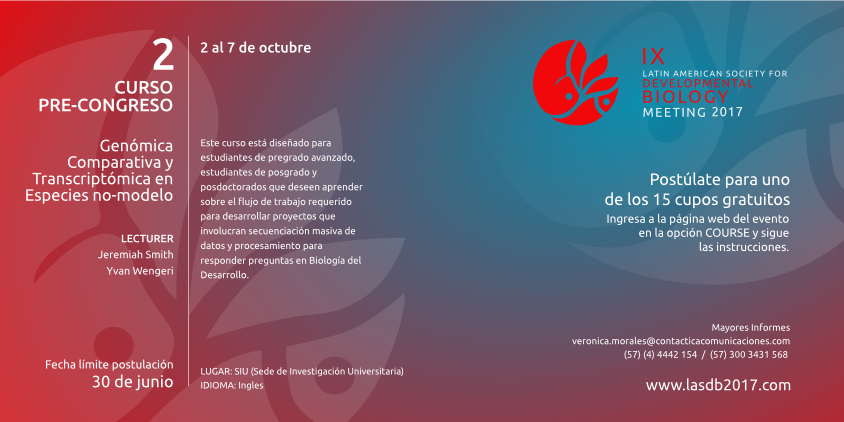
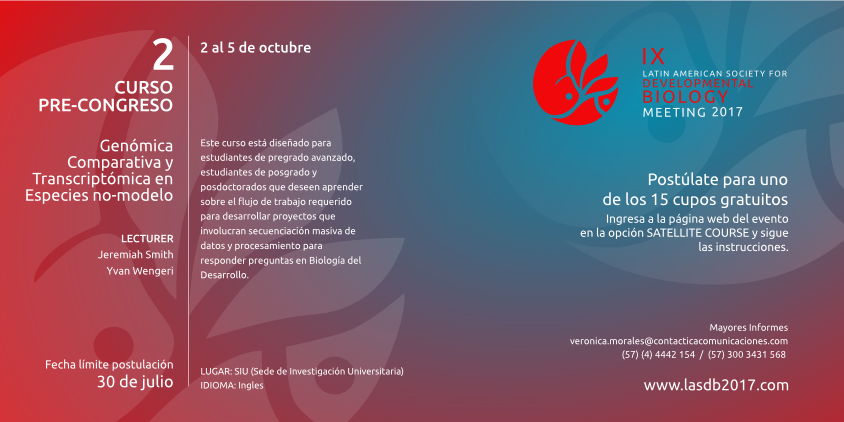
cmabios realziados pro natalia al satellite courses

diff --git a/Lasdb2017_project/course.html b/Lasdb2017_project/course.html
@@ -7,7 +7,7 @@
     <meta name="description" content="Lasdb2017. LATIN AMERICAN SOCIETY FOR DEVELOPMENTAL BIOLOGY MEETING 2017" >
     <meta name="author" content="Lasdb. LATIN AMERICAN SOCIETY FOR DEVELOPMENTAL BIOLOGY" >
     <meta name="robots" content="index, follow">
-	<title>Satellital Course Lasbd2017</title>
+	<title>Satellite Courses Lasbd2017</title>
 	<!--Fonts-->
 	<link rel="stylesheet" href="font-awesome-4.6.3/css/font-awesome.min.css"/>
 	<link href="https://fonts.googleapis.com/css?family=Ubuntu+Condensed|Ubuntu+Mono:400,700|Ubuntu:400,500,700" rel="stylesheet">
@@ -64,7 +64,7 @@
 				<div id="curso">										
 					<h1>COURSE 1</h1>					
 					<h2>Current Topics and Emerging Models in Developmental Biology</h2>
-					<h1>October 2-5</h1></br></br>
+					<h1>October 2-6</h1></br></br>
 					<div>
 					<img id="foto_curso" src="imagenes/cursos/foto_curso_1.jpg" alt="foto curso 1">
 					</div>
@@ -73,12 +73,12 @@
 					</br>
 					<h1>LECTURERS</h1>
 					</br>
-					<p>Brigitte Galliot, Federico Brown, Rodrigo Nunes de Fonseca, Miguel Concha, Enrique Amaya, Karen Echeverri</p>
+					<p>Enrique Amaya, Federico Brown, Miguel Concha, Karen Echeverri, Brigitte Galliot, Rodrigo Nunes da Fonseca</p>
 				</div>	
 				<div id="curso">										
 					<h1>COURSE 2</h1>					
 					<h2>Comparative Genomics and Transcriptomics in non-model species</h2>
-					<h1>October 2-6</h1></br></br>
+					<h1>October 2-5</h1></br></br>
 					<div>
 					<img id="foto_curso" src="imagenes/cursos/foto_curso_2.jpg" alt="foto curso 1">
 					</div>
@@ -98,17 +98,22 @@
 				<span class="fa fa-check-circle-o fa-2x" aria-hidden="true"></span>
 				</div>	
 				<div id="nota">
-				<h1>Requirements</h1></br>				
+				<h1>How to apply</h1></br>				
 					<ul>
-						<li>Be registered at Lasdb2017 Meeting.</li>
-						<li>Make the registration payment.</li>
-						<li><a href="http://formularios.aplicacionesincontacto.com/#/formViewer/65b10f9c-76eb-446d-8e57-755782130b83">Submit the form</a></li>
-						<li>Attach on the form a single PDF file with resume, motivation letter and letter of recommendation from the tutor. </li>
+						<li>Register to the LASDB2017 meeting and submit payment online (only attendees of the LASDB2017 can apply).</li>
+						<li><a href="http://formularios.aplicacionesincontacto.com/#/formViewer/65b10f9c-76eb-446d-8e57-755782130b83">Submit the form (Click Here).</a></li>
+						<li>During the form submission you will be asked to submit a single PDF file with:
+							<ul>
+								<li>CV.</li>
+								<li>a motivation letter.</li>
+								<li>a letter of recommendation (from your advisor).</li>
+							</ul>
+						</li>
 					</ul>					
 				</div>			
 				<div id="nota">
-				<p>Apply for one of the 15 available places to attend the Satellite Course</p></br></br>
-				<p class="buton"><a href="http://formularios.aplicacionesincontacto.com/#/formViewer/65b10f9c-76eb-446d-8e57-755782130b83"> APPLY FORM</a></p>
+				<p>Total number of students per course: 15</p></br>
+				<p class="buton"><a href="http://formularios.aplicacionesincontacto.com/#/formViewer/65b10f9c-76eb-446d-8e57-755782130b83"> APPLICATION FORM</a></p>
 				</div>
 				<div id="nota">
 				<h2>Deadline July 30</h2>

diff --git a/Lasdb2017_project/index.html b/Lasdb2017_project/index.html
@@ -85,7 +85,7 @@
 				        <li><a href="#tick" class="lnks">Registration</a></li>
 				        <li><a href="#organizers" class="lnks">Organizers</a></li>
 				        <li><a href="#spon" class="lnks">Sponsorship</a></li>
-				        <li><a href="course.html" class="course" target="blank_">SATELLITAL COURSES</a></li>
+				        <li><a href="course.html" class="course" target="blank_">SATELLITE COURSES</a></li>
 				        <li><a href="#cont0" class="lnks">Contact</a></li>
 				      </ul>
 				</nav>

diff --git a/Lasdb2017_project/css/course_style.css b/Lasdb2017_project/css/course_style.css
@@ -207,8 +207,16 @@ font-size: 1.1em;
 
 .note ul{
     font-size: 1.2em;
-    line-height: 20px;
+    line-height: 22px;
     list-style-type:decimal;
+    text-align: left;
+}
+
+.note ul li ul{
+    margin-left: 50px;
+    font-size: 1em;
+    line-height: 20px;
+    list-style-type:circle;
     text-align: left;
 }
 
@@ -236,3 +244,4 @@ font-size: 1.1em;
 .buton a:hover{
     font-weight: 500;    
 }
+
